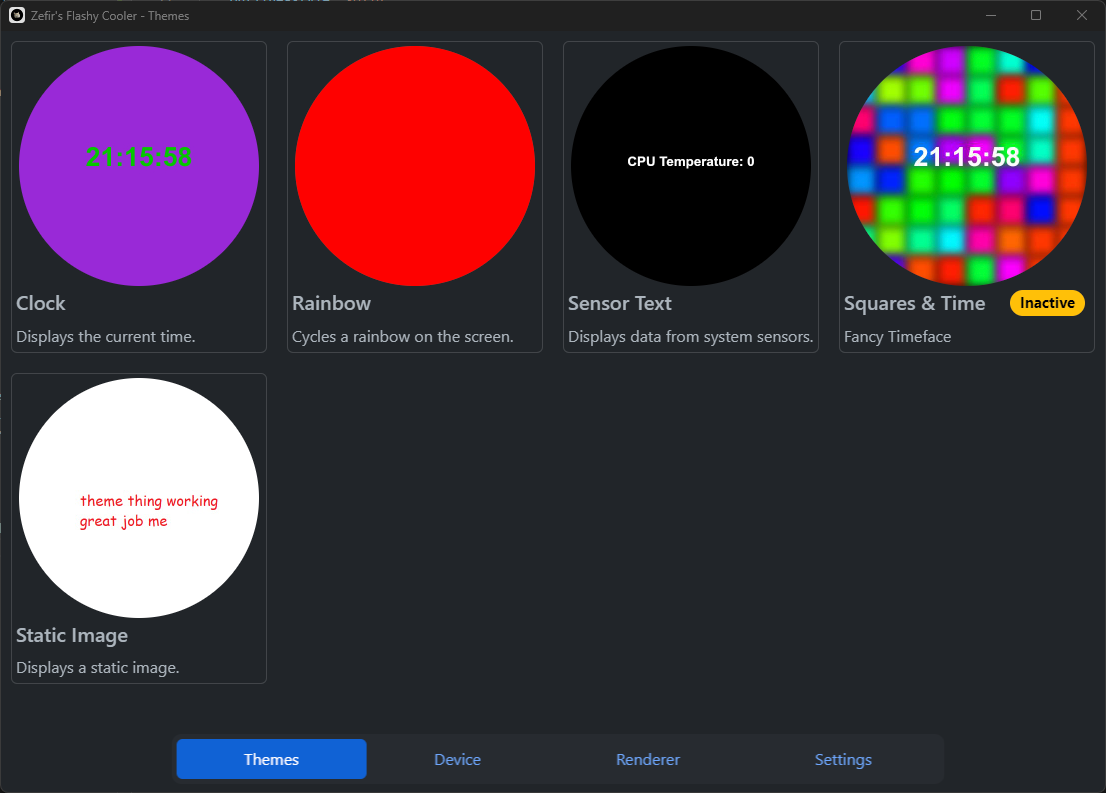
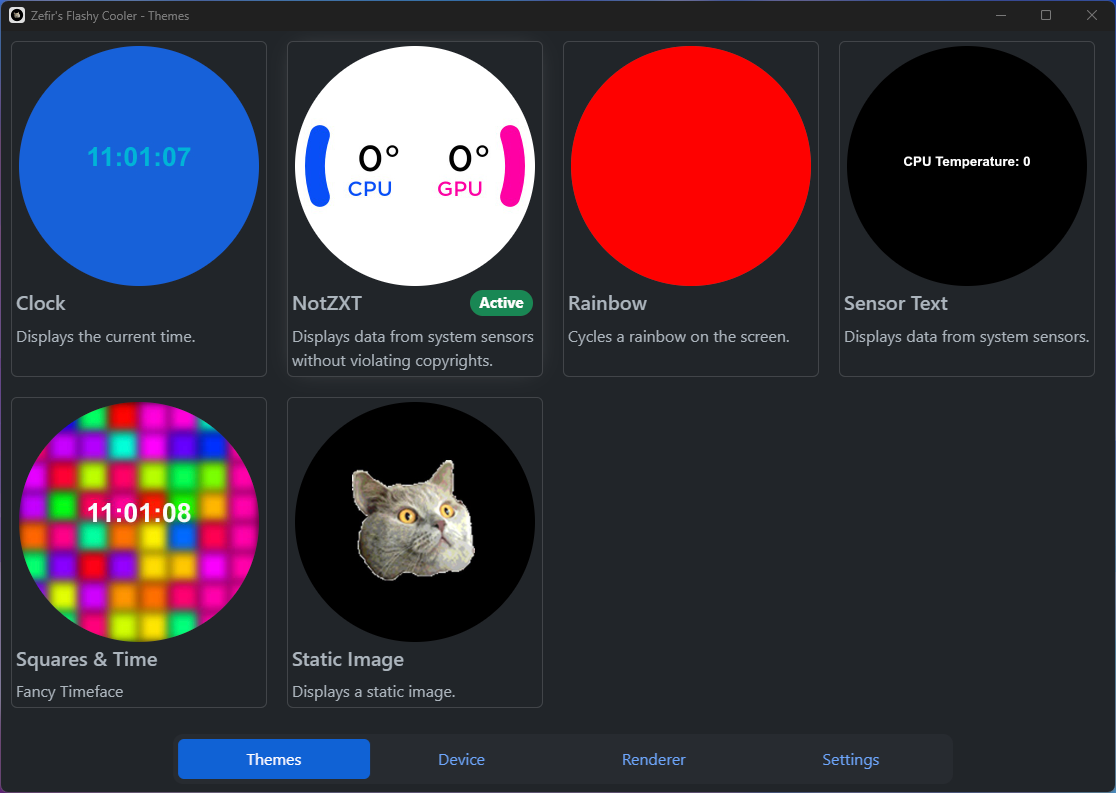
update screenshot

diff --git a/themes/notzxt/theme.js b/themes/notzxt/theme.js
@@ -34,41 +34,49 @@ context.textAlign = "center";
 
 function renderFrame() {
     sensorValue1 = sensors.rateLimitedGetSensorValueByPath(config.sensorPath1, "current", config.refreshFrequency);
+    let sensorValueCalc1, sensorValueCalc2;
     if(sensorValue1 > 85){
-        sensorValue1 = 85;
+        sensorValueCalc1 = 85;
     } else if (sensorValue1<30){
-        sensorValue1 = 30;
+        sensorValueCalc1 = 30;
+    } else {
+        sensorValueCalc1 = sensorValue1;
     }
     sensorValue2 = sensors.rateLimitedGetSensorValueByPath2(config.sensorPath2, "current", config.refreshFrequency);
     if(sensorValue2 > 85){
-        sensorValue2 = 85;
+        sensorValueCalc2 = 85;
     } else if (sensorValue2<30){
-        sensorValue2 = 30;
+        sensorValueCalc2 = 30;
+    } else {
+        sensorValueCalc2 = sensorValue2;
     }
     
     context.clearRect(0,0,480,480);
+
+    context.fillStyle = config.backgroundColour;
+    context.fillRect(0,0,width,height);
     
     context.beginPath();
-    context.arc(width/2, height/2, 200, scale(sensorValue1, 30, 85, 0.9, 0.6) * Math.PI, scale(sensorValue1, 30, 85, 1.1, 1.4) * Math.PI);
+    context.arc(width/2, height/2, 200, scale(sensorValueCalc1, 30, 85, 0.9, 0.6) * Math.PI, scale(sensorValueCalc1, 30, 85, 1.1, 1.4) * Math.PI);
     context.strokeStyle = config.colour1;
     context.fillStyle = config.colour1;
     context.font = "40px Gotham-SSM";
     context.fillText("CPU", 150, 300);
     context.font = "70px Gotham-SSM";
-    context.fillStyle = "#ffffff";
+    context.fillStyle = config.textColour;
     context.fillText(sensorValue1 + "°", 168, 250);
     context.lineWidth = 40;
     context.lineCap = "round";
     context.stroke();
 
     context.beginPath();
-    context.arc(width/2, height/2, 200, scale(sensorValue2, 30, 85, 1.9, 1.6) * Math.PI, scale(sensorValue2, 30, 85, 2.1, 2.4) * Math.PI);
+    context.arc(width/2, height/2, 200, scale(sensorValueCalc2, 30, 85, 1.9, 1.6) * Math.PI, scale(sensorValueCalc2, 30, 85, 2.1, 2.4) * Math.PI);
     context.strokeStyle = config.colour2;
     context.fillStyle = config.colour2;
     context.font = "40px Gotham-SSM";
     context.fillText("GPU", 330, 300);
     context.font = "70px Gotham-SSM";
-    context.fillStyle = "#ffffff";
+    context.fillStyle = config.textColour;
     context.fillText(sensorValue2 + "°", 348, 250);
     context.lineWidth = 40;
     context.lineCap = "round";
@@ -119,6 +127,16 @@ module.exports = {renderFrame, renderPreview, info: {
         colour2: {
             type: "colour",
             title: "Right Sensor Colour",
+            defaultValue: "#d318d9"
+        },
+        backgroundColour: {
+            type: "colour",
+            title: "Background Colour",
+            defaultValue: "#d318d9"
+        },
+        textColour: {
+            type: "colour",
+            title: "Text Colour",
             defaultValue: "#d318d9"
         }
     }

diff --git a/main.js b/main.js
@@ -1,7 +1,7 @@
 const {app, Tray, Menu, nativeImage, BrowserWindow, nativeTheme, systemPreferences, ipcMain, dialog} = require("electron");
 if (require("electron-squirrel-startup")) app.quit();
 
-const appVersion = "0.0.1";
+const appVersion = "0.0.2";
 const releaseType = "alpha";
 
 const colors = require("colors");
